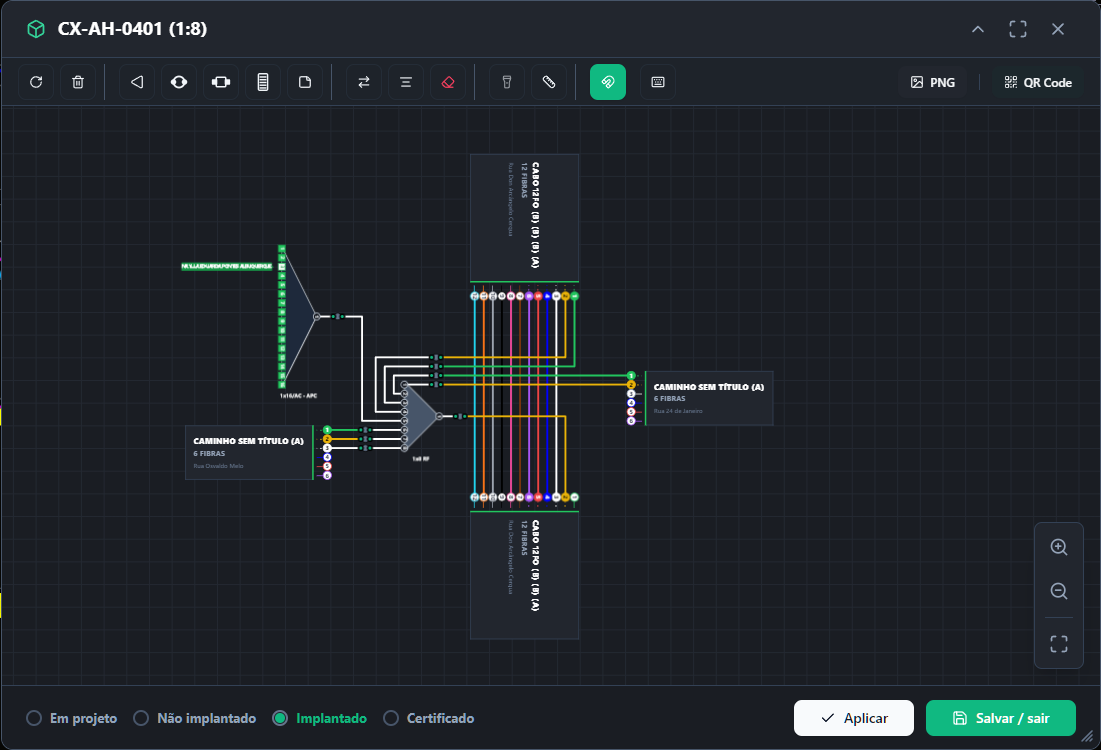
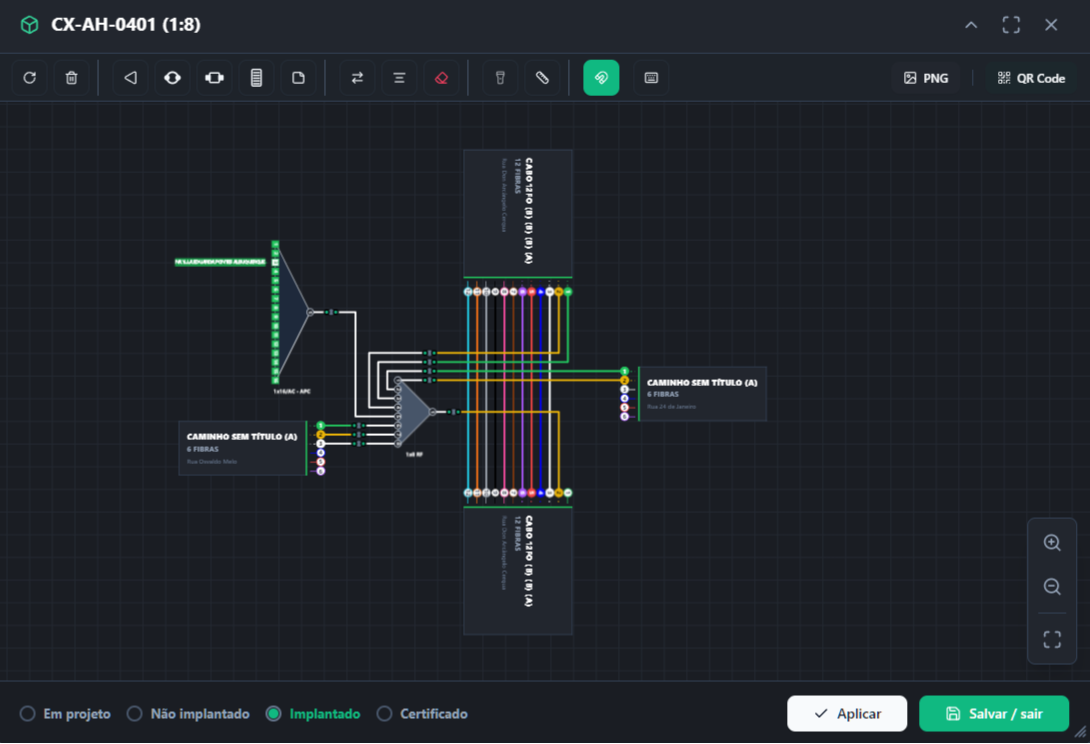
change pincture

diff --git a/server/src/integrations/sgp/sgp.service.ts b/server/src/integrations/sgp/sgp.service.ts
@@ -488,18 +488,24 @@ export class SgpService {
         const onuData = mainService.onu || {};
 
         // 1. Connection & Account Status Sync
+        // Trust conexao.status when present. When it's missing, prefer the
+        // verificaacesso probe (GENERIC only) over guessing 'offline' from
+        // serial/MAC presence — having equipment registered doesn't actually
+        // mean the link is down.
         let newStatus: string | null = onuData.conexao?.status
             ? String(onuData.conexao.status).toLowerCase().trim()
-            : (onuData.serial || mainService.mac ? 'offline' : null);
+            : null;
 
-        // GENERIC fallback: when the customer payload has no ONU data at all,
-        // probe /api/ura/verificaacesso/ on the main contract for a definitive
-        // online/offline answer. Skipped for IXC/BEESWEB since they have their
-        // own signals (radusuarios.online and "no support" respectively).
         if (!newStatus && mainContract?.id && settings.sgpType !== 'IXC' && settings.sgpType !== 'BEESWEB') {
             const generic = this.getAdapter('GENERIC') as GenericAdapter;
             const fallback = await generic.checkServiceAccess(baseUrl, settings.apiApp, settings.apiToken, mainContract.id);
             if (fallback) newStatus = fallback;
+        }
+
+        // Last-resort heuristic: only if we still have nothing AND the SGP
+        // recorded equipment for this customer, assume offline.
+        if (!newStatus && (onuData.serial || mainService.mac)) {
+            newStatus = 'offline';
         }
 
         const servicoStatus = mainService.status || mainContract.status || sgpCustomer.status;
@@ -984,7 +990,7 @@ export class SgpService {
             // Per-page queue of customers needing the verificaacesso fallback
             // (no ONU data in payload). Resolved with bounded concurrency at the
             // end of the page so we don't slow down processing inline.
-            const accessFallbackQueue: { customerId: string; contratoId: string | number }[] = [];
+            const accessFallbackQueue: { customerId: string; contratoId: string | number; equipmentRegistered: boolean }[] = [];
 
             for (const cliente of clientes) {
                 const cpfCnpj = cliente.cpfcnpj;
@@ -1006,9 +1012,12 @@ export class SgpService {
                         if (mapping && mapping.internalCustomerId) {
                             const customer = customerMap.get(mapping.internalCustomerId);
                             if (customer) {
-                                const newStatus = servico.onu?.conexao?.status
+                                // Prefer verificaacesso over the serial/mac=offline guess —
+                                // having equipment doesn't mean the link is down.
+                                const liveStatus = servico.onu?.conexao?.status
                                     ? String(servico.onu.conexao.status).toLowerCase().trim()
-                                    : (servico.onu?.serial || servico.mac ? 'offline' : null);
+                                    : null;
+                                const equipmentRegistered = !!(servico.onu?.serial || servico.mac);
 
                                 const servicoStatus = servico.status || cliente.status;
                                 const newAccountStatus = servicoStatus?.toLowerCase() === 'ativo' ? 'ACTIVE' :
@@ -1016,9 +1025,9 @@ export class SgpService {
                                                         (servicoStatus?.toLowerCase() === 'cancelado' ? 'INACTIVE' : null));
 
                                 const updateData: Record<string, any> = {};
-                                if (newStatus && newStatus !== (customer as any).connectionStatus) {
-                                    updateData.connectionStatus = newStatus;
-                                    (customer as any).connectionStatus = newStatus;
+                                if (liveStatus && liveStatus !== (customer as any).connectionStatus) {
+                                    updateData.connectionStatus = liveStatus;
+                                    (customer as any).connectionStatus = liveStatus;
                                 }
                                 if (newAccountStatus && newAccountStatus !== (customer as any).status) {
                                     updateData.status = newAccountStatus;
@@ -1027,9 +1036,15 @@ export class SgpService {
 
                                 this.stagePendingUpdate(pendingUpdates, customer.id, updateData);
 
-                                // Queue verificaacesso fallback when ONU data is missing.
-                                if (!newStatus && contrato.id) {
-                                    accessFallbackQueue.push({ customerId: customer.id, contratoId: contrato.id });
+                                // Queue verificaacesso when there's no live ONU status,
+                                // regardless of equipment presence. Mark equipment so
+                                // we can fall back to 'offline' if verificaacesso fails.
+                                if (!liveStatus && contrato.id) {
+                                    accessFallbackQueue.push({
+                                        customerId: customer.id,
+                                        contratoId: contrato.id,
+                                        equipmentRegistered
+                                    });
                                 }
                             }
                         }
@@ -1066,8 +1081,12 @@ export class SgpService {
                     const status = await generic.checkServiceAccess(
                         baseUrl, setting.apiApp, setting.apiToken, item.contratoId
                     );
-                    if (status) {
-                        this.stagePendingUpdate(pendingUpdates, item.customerId, { connectionStatus: status });
+                    // Prefer the live verificaacesso answer; fall back to the
+                    // 'offline' guess only if the probe failed AND the customer
+                    // has equipment registered (mirrors syncSingleCustomer).
+                    const finalStatus = status ?? (item.equipmentRegistered ? 'offline' : null);
+                    if (finalStatus) {
+                        this.stagePendingUpdate(pendingUpdates, item.customerId, { connectionStatus: finalStatus });
                         resolved++;
                     }
                 });